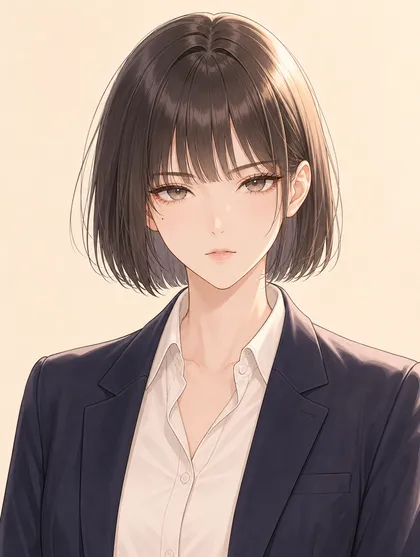
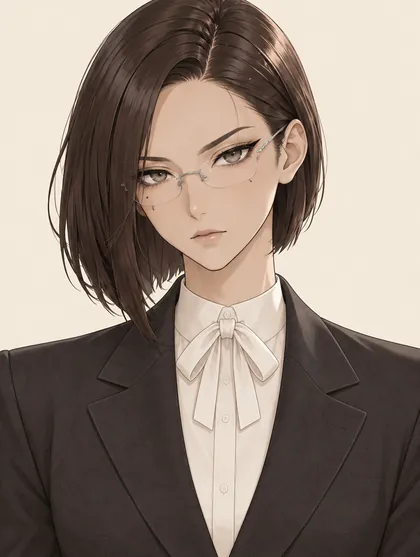
서하린 얼굴 새로 그림: 주인공과 확실히 다른 날카로운 인상(안경·비대칭 단발), 단정한 옷차림, 표정 6종
Claude-Session: https://claude.ai/code/session_01PA4WqGbsVBPG7wjJTt1QyA

diff --git a/index.html b/index.html
@@ -331,7 +331,7 @@ h1,h2,h3,.wordmark,.hud-line b,.sh-head b,.wizq h2,input[type=text]{font-family:
    <button class="btn blue" id="b-new">새로 시작</button>
    <button class="btn ghost sm" id="b-slots" style="display:none;background:rgba(255,255,255,.8)">저장 슬롯 불러오기</button>
    <button class="btn ghost sm" id="b-cont" style="display:none;background:rgba(255,255,255,.8)">이어하기</button>
-   <div class="note">저장은 이 기기에만 보관돼요. · 빌드 #35 · 2026.10.11</div>
+   <div class="note">저장은 이 기기에만 보관돼요. · 빌드 #36 · 2026.10.11</div>
   </div>
  </section>
  <section id="setup" class="screen">
@@ -369,7 +369,7 @@ h1,h2,h3,.wordmark,.hud-line b,.sh-head b,.wizq h2,input[type=text]{font-family:
  <section id="end" class="screen"></section>
  <div id="act" class="actcard"></div>
  <div id="ev" class="evcard"></div>
- <div id="buildtag">빌드 #35 · 2026.10.11</div>
+ <div id="buildtag">빌드 #36 · 2026.10.11</div>
  <div class="ov" id="ov"><div class="sheet" id="sheet"></div></div>
 </div>
 <script>// ==ENGINE== 순수 게임 로직 (DOM 금지: sim.mjs가 이 파일들을 그대로 실행한다)
@@ -3470,7 +3470,7 @@ function initGame(){
   $('btn-advice').onclick = () => { if($('dialog').hidden) showDialog(); else $('dialog').hidden = true; };
   $('dlg-x').onclick = () => { $('dialog').hidden = true; };
   document.querySelectorAll('[data-sheet]').forEach(b => b.onclick = () => ({stat:showStats, career:showCareer, love:showLove, dex:showDex, shop:showShop}[b.dataset.sheet])());
-  $('b-menu').onclick = () => { openSheet(sheetHead('메뉴') + `<div class="menu-list"><button class="btn ghost sm" id="m-update">🔄 새 버전 확인</button><button class="btn ghost sm" id="m-slots">💾 저장 · 불러오기 (슬롯 5개)</button><button class="btn ghost sm" id="m-title">🏠 타이틀로 (자동 저장)</button></div><div class="foot">빌드 #35 · 2026.10.11<br><span id="diag"></span></div>`);
+  $('b-menu').onclick = () => { openSheet(sheetHead('메뉴') + `<div class="menu-list"><button class="btn ghost sm" id="m-update">🔄 새 버전 확인</button><button class="btn ghost sm" id="m-slots">💾 저장 · 불러오기 (슬롯 5개)</button><button class="btn ghost sm" id="m-title">🏠 타이틀로 (자동 저장)</button></div><div class="foot">빌드 #36 · 2026.10.11<br><span id="diag"></span></div>`);
     $('x').onclick = closeSheet;
     try{ const pr = document.createElement('div'); pr.style.cssText = 'position:fixed;left:0;bottom:0;padding-bottom:env(safe-area-inset-bottom);padding-top:env(safe-area-inset-top);visibility:hidden'; document.body.appendChild(pr); const cs = getComputedStyle(pr), sb = cs.paddingBottom, st = cs.paddingTop; pr.remove(); const sa = window.navigator.standalone === true || matchMedia('(display-mode: standalone)').matches; $('diag').textContent = `화면 ${innerWidth}×${innerHeight} · 기기 ${screen.width}×${screen.height} · 안전영역 위 ${st}/아래 ${sb} · ${sa ? '홈 화면 앱' : '브라우저'}`; }catch(e){}
     $('m-update').onclick = () => checkUpdate(true);
@@ -3498,7 +3498,7 @@ function fitFull(){
 fitFull(); addEventListener('resize', fitFull); addEventListener('orientationchange', () => setTimeout(fitFull, 300)); setTimeout(fitFull, 600);
 
 // ── 새 버전 확인: 사파리는 페이지를 몇 분간 기억해 두므로, 서버의 빌드 번호와 비교해 알려 준다 ──
-const BUILD_NO = parseInt(('#35 · 2026.10.11'.match(/#(\d+)/) || [0, 0])[1], 10);
+const BUILD_NO = parseInt(('#36 · 2026.10.11'.match(/#(\d+)/) || [0, 0])[1], 10);
 async function checkUpdate(manual){
   try{
     const r = await fetch(location.pathname + '?_=' + Date.now(), {cache:'no-store'}); const txt = await r.text();

diff --git a/sw.js b/sw.js
@@ -1,5 +1,5 @@
 // 자동 생성 파일 (build.mjs). 직접 수정하지 마세요.
-const CACHE = 'rewind-ten-e756a358e9';
+const CACHE = 'rewind-ten-516b1b9f35';
 const CORE = ["./","index.html","manifest.json","icon-192.png","icon-512.png","art/cover.webp","art/age20.webp","art/age22.webp","art/act_study.webp","art/act_cafe.webp","art/act_rest.webp","art/act_friends.webp","art/face_happy.webp","art/face_tired.webp"];
 self.addEventListener('install', e => { e.waitUntil(caches.open(CACHE).then(c => c.addAll(CORE)).then(() => self.skipWaiting())); });
 self.addEventListener('activate', e => { e.waitUntil(caches.keys().then(ks => Promise.all(ks.filter(k => k.startsWith('rewind-ten-') && k !== CACHE).map(k => caches.delete(k)))).then(() => self.clients.claim())); });
